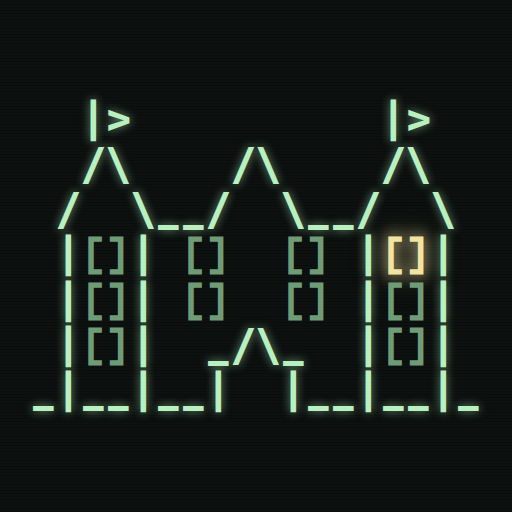
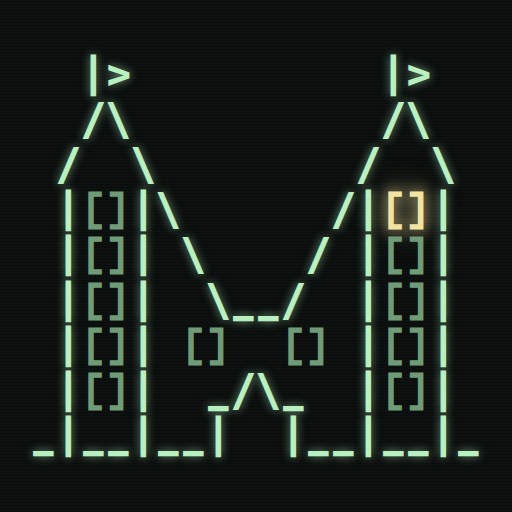
Zámeček bez prostřední věže (zdálky M), panel na mobilu ve dvou sloupcích
- nová varianta „f“ ASCII zámku v gen-icons.mjs: střecha mezi dvěma věžemi se
  propadá do V, takže ikona i ve 48 px čte jako M; přegenerované ikony aplikace,
  favicon, obrázek v záhlaví eseje i OG obrázek eseje (levá část; titulek beze změny)
- boční panel skládá části (Kde jste, Východy, Vidíte, …) do <section>; na úzkém
  displeji jdou dvě vedle sebe, uložené hry, stav a otevřené menu předmětu přes celou šířku

Claude-Session: https://claude.ai/code/session_01KcXvKmDH5EXNxNb689unZv

diff --git a/wasm/web/index.html b/wasm/web/index.html
@@ -40,6 +40,8 @@
   aside h2 { font-size: .7rem; letter-spacing: .08em; text-transform: uppercase; color: var(--dim);
     margin: 1rem 0 .4rem; font-weight: 600; }
   aside h2:first-child { margin-top: 0; }
+  aside .sec > h2:first-child { margin-top: 1rem; }
+  aside .sec:first-child > h2:first-child { margin-top: 0; }
   .savename { width: 8rem; font: inherit; font-size: .82rem; background: #0f1513; color: var(--fg);
     border: 1px solid #2a3a33; border-radius: .35rem; padding: .2rem .45rem; }
   .saverow { align-items: center; margin-top: .35rem; }
@@ -184,7 +186,11 @@
   @media (max-width: 52rem) {
     .app { grid-template-columns: 1fr; grid-template-rows: auto 1fr auto auto;
       grid-template-areas: "head" "screen" "input" "side"; }
-    aside { border-left: none; border-top: 1px solid var(--line); max-height: 40vh; }
+    aside { border-left: none; border-top: 1px solid var(--line); max-height: 40vh;
+      display: grid; grid-template-columns: repeat(2, minmax(0, 1fr)); column-gap: 1rem; align-content: start; }
+    aside .sec > h2:first-child { margin-top: .7rem; }
+    aside .sec:nth-child(-n+2) > h2:first-child { margin-top: 0; }
+    aside .sec.wide, aside .sec:has(.menu) { grid-column: 1 / -1; }
     .app.both { grid-template-columns: 1fr; grid-template-rows: auto 32vh minmax(0, 1fr) auto auto;
       grid-template-areas: "head" "map" "screen" "input" "side"; }
   }
@@ -555,6 +561,15 @@ function render() {
         `ITST: ${r.join(" ")}` }));
   }
   renderSaves();
+  // one <section> per heading: on phones the panel lays them out in two columns
+  let sec = null;
+  for (const k of [...side.children]) {
+    if (k.tagName === "H2" || !sec) {
+      sec = el("section", { className: "sec" + (/^(Uložené hry|Stav)/.test(k.textContent) ? " wide" : "") });
+      side.append(sec);
+    }
+    sec.append(k);
+  }
   if (!waiting) side.querySelectorAll("button, input").forEach((b) => (b.disabled = true));
 }
 

diff --git a/wasm/web/esej.html b/wasm/web/esej.html
@@ -69,9 +69,11 @@
 luštili na traktorovém papíře a co to udělalo s jejich mozky</p>
 </div>
 <pre class="hero" role="img" aria-label="ASCII-art zámeček se dvěma věžemi a jedním rozsvíceným oknem">  |&gt;          |&gt;
-  /\    /\    /\
- /  \__/  \__/  \
- |<span class="d">[]</span>| <span class="d">[]</span>  <span class="d">[]</span> |<span class="y">[]</span>|
+  /\          /\
+ /  \        /  \
+ |<span class="d">[]</span>|\      /|<span class="y">[]</span>|
+ |<span class="d">[]</span>| \    / |<span class="d">[]</span>|
+ |<span class="d">[]</span>|  \__/  |<span class="d">[]</span>|
  |<span class="d">[]</span>| <span class="d">[]</span>  <span class="d">[]</span> |<span class="d">[]</span>|
  |<span class="d">[]</span>|  _/\_  |<span class="d">[]</span>|
 _|__|__|  |__|__|_</pre>
